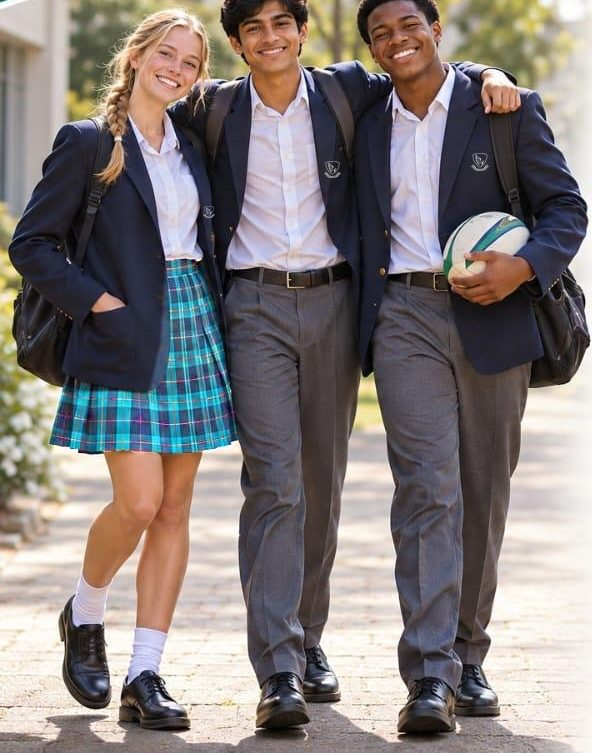
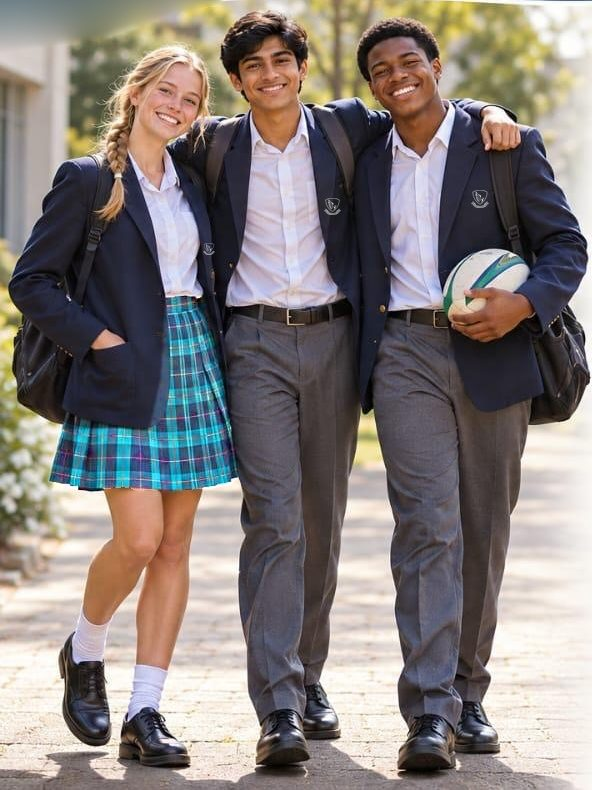
Landing: friends photo without cut-off heads

diff --git a/index.html b/index.html
@@ -15,7 +15,7 @@ background:#17465E;color:#fff;text-decoration:none;font-weight:700;font-size:1.0
 @media (min-width:860px){.panels{grid-template-columns:1fr 1fr}}
 .panel{background:var(--card);border:1px solid var(--line);border-radius:18px;padding:16px;display:flex;flex-direction:column;gap:14px}
 .panel h2{font-family:Rockwell,Georgia,serif;margin:0;font-size:1.5rem}
-.hero{margin:0}.hero img{width:100%;height:auto;border-radius:12px;display:block;aspect-ratio:4/3;object-fit:cover;object-position:50% 8%}
+.hero{margin:0}.hero img{width:100%;height:auto;border-radius:12px;display:block;aspect-ratio:4/3;object-fit:cover;object-position:50% 0%}
 .hero figcaption{font-weight:600;color:var(--muted);margin-top:6px;text-align:center}
 .collage{display:grid;grid-template-columns:repeat(6,1fr);grid-auto-rows:84px;gap:6px}
 .collage figure{margin:0;overflow:hidden;border-radius:10px}.collage img{width:100%;height:100%;object-fit:cover;display:block}
@@ -40,7 +40,7 @@ footer a{color:#17465E}
 <div id="continue"><a href="#"><span aria-hidden="true">&#9654;</span><span class="t">Continue</span></a></div>
 <div class="panels">
 <section class="panel" aria-labelledby="lo-h"><h2 id="lo-h">Life Orientation</h2>
-<figure class="hero"><img src="home/friends.jpg" alt="Mia, Aarav and Thabo, three friends in King's school uniform, walking together and smiling" width="592" height="753" decoding="async">
+<figure class="hero"><img src="home/friends.jpg" alt="Mia, Aarav and Thabo, three friends in King's school uniform, walking together and smiling" width="592" height="790" decoding="async">
 <figcaption>Meet Mia, Aarav and Thabo</figcaption></figure>
 <div class="buttons"><a class="cls" href="grade-8/index.html" style="--btn:#17465E;--fg:#FFFFFF"><span class="g">Grade 8</span><span class="s">Life Orientation</span></a><a class="cls" href="grade-9/index.html" style="--btn:#7C3AED;--fg:#FFFFFF"><span class="g">Grade 9</span><span class="s">Life Orientation</span></a></div></section>
 <section class="panel" aria-labelledby="art-h"><h2 id="art-h">Visual Arts</h2>
